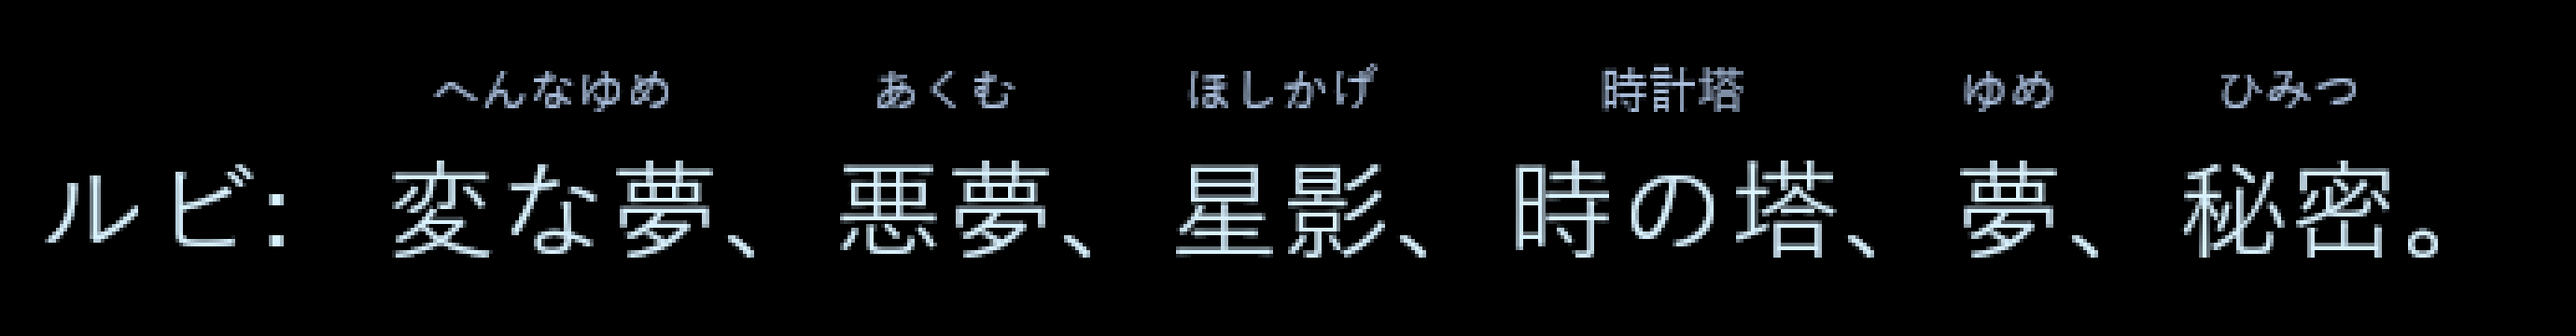
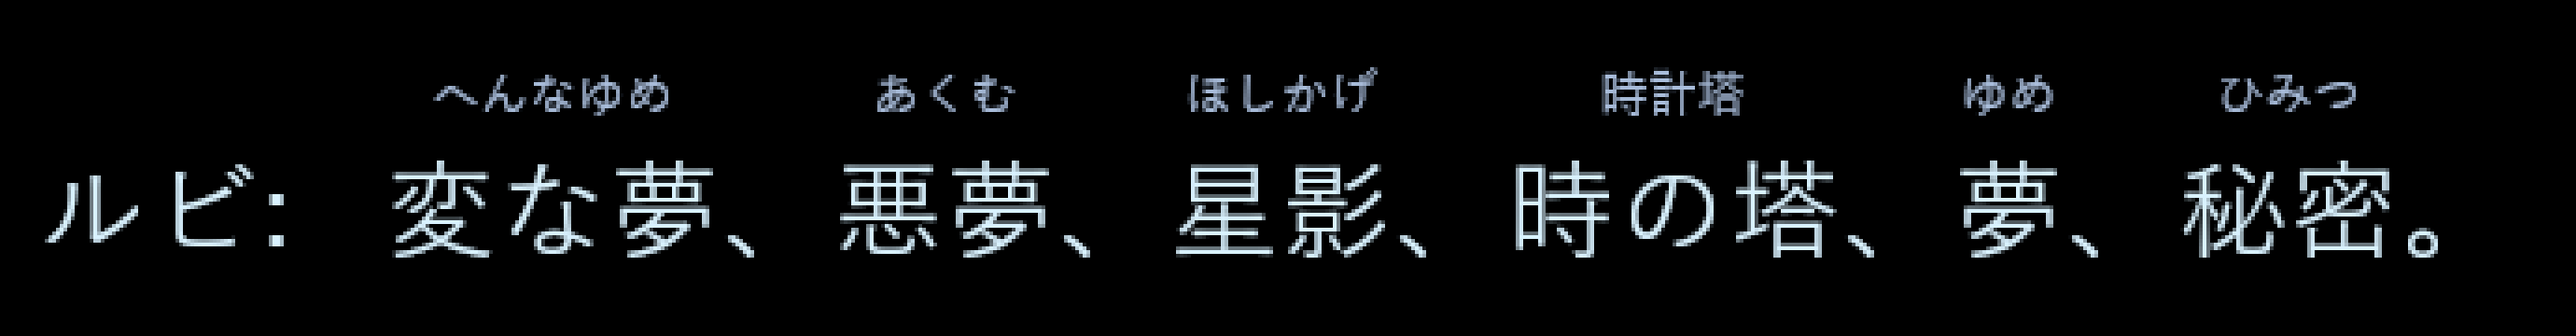
Handle extreme horizontal ruby spacing

diff --git a/crates/arcweft-text-layout/src/lib.rs b/crates/arcweft-text-layout/src/lib.rs
@@ -182,7 +182,7 @@ fn ruby_metrics_from_presentation(
         gap: presentation
             .layout
             .as_ref()
-            .and_then(|layout| positive_milli(layout.ruby_gap))
+            .and_then(|layout| nonnegative_milli(layout.ruby_gap))
             .unwrap_or(DEFAULT_RUBY_GAP),
         overhang: presentation
             .layout
@@ -201,6 +201,12 @@ fn positive_milli(value: Option<arcweft_render_text::Milli>) -> Option<f32> {
     value
         .map(arcweft_render_text::Milli::as_f32)
         .filter(|value| value.is_finite() && *value > 0.0)
+}
+
+fn nonnegative_milli(value: Option<arcweft_render_text::Milli>) -> Option<f32> {
+    value
+        .map(arcweft_render_text::Milli::as_f32)
+        .filter(|value| value.is_finite() && *value >= 0.0)
 }
 
 /// Strictness preset for JLREQ punctuation pair planning.
@@ -342,15 +348,14 @@ pub fn layout_frame(
         let glyph_start = out.glyphs.len();
         match writing_mode {
             RichTextWritingMode::HorizontalTb => {
-                layout_horizontal_run(
-                    &mut out.glyphs,
+                let context = HorizontalRunLayoutContext {
                     run_index,
-                    range.start,
-                    text,
-                    &run.presentation,
-                    run_config,
-                    &mut state,
-                );
+                    range_start: range.start,
+                    presentation: &run.presentation,
+                    ruby_annotations: &frame.display_map.ruby_annotations,
+                    config: run_config,
+                };
+                layout_horizontal_run(&mut out.glyphs, text, context, &mut state);
             }
             RichTextWritingMode::VerticalRl | RichTextWritingMode::VerticalLr => {
                 let context = RunLayoutContext {
@@ -528,32 +533,58 @@ impl LayoutCursor {
     }
 }
 
-fn layout_horizontal_run(
-    glyphs: &mut Vec<LaidOutGlyph>,
+#[derive(Clone, Copy)]
+struct HorizontalRunLayoutContext<'a> {
     run_index: usize,
     range_start: usize,
-    text: &str,
-    presentation: &RichTextPresentation,
+    presentation: &'a RichTextPresentation,
+    ruby_annotations: &'a [RichTextRubyAnnotation],
     config: TextLayoutConfig,
+}
+
+fn layout_horizontal_run(
+    glyphs: &mut Vec<LaidOutGlyph>,
+    text: &str,
+    context: HorizontalRunLayoutContext<'_>,
     state: &mut TextLayoutState,
 ) {
     let cursor = &mut state.horizontal;
-    for (offset, ch) in text.char_indices() {
+    let char_indices = text.char_indices().collect::<Vec<_>>();
+    let mut char_index = 0usize;
+    while let Some((offset, ch)) = char_indices.get(char_index).copied() {
         if ch == '\n' {
-            cursor.x = config.origin.x;
-            cursor.y += config.line_advance;
+            cursor.x = context.config.origin.x;
+            cursor.y += context.config.line_advance;
+            char_index += 1;
             continue;
         }
-        let width = horizontal_advance(ch, config.font_size);
-        if horizontal_cluster_should_wrap(cursor.x, width, config) {
-            cursor.x = config.origin.x;
-            cursor.y += config.line_advance;
+        let absolute_start = context.range_start + offset;
+        if let Some(annotation) = horizontal_ruby_annotation_starting_at(
+            context.ruby_annotations,
+            context.range_start,
+            text,
+            absolute_start,
+        ) {
+            let base_end = annotation.base_range.end;
+            let next_index = layout_horizontal_ruby_base(glyphs, text, annotation, context, cursor);
+            char_index = char_indices
+                .iter()
+                .position(|(candidate_offset, _)| {
+                    context.range_start + *candidate_offset >= base_end
+                })
+                .unwrap_or(next_index);
+            continue;
         }
-        let start = range_start + offset;
+        let width = horizontal_advance(ch, context.config.font_size);
+        if horizontal_cluster_should_wrap(cursor.x, width, context.config) {
+            cursor.x = context.config.origin.x;
+            cursor.y += context.config.line_advance;
+        }
+        let start = context.range_start + offset;
         let end = start + ch.len_utf8();
-        let bounds = horizontal_glyph_bounds(cursor.x, cursor.y, width, config);
+        let bounds = horizontal_glyph_bounds(cursor.x, cursor.y, width, context.config);
         glyphs.push(LaidOutGlyph {
-            run_index,
+            run_index: context.run_index,
             range: RichTextRange::new(start, end),
             text: ch.to_string(),
             origin: LayoutPoint::new(cursor.x, cursor.y),
@@ -562,10 +593,77 @@ fn layout_horizontal_run(
             writing_mode: RichTextWritingMode::HorizontalTb,
             orientation: GlyphOrientation::Upright,
             vertical_form: GlyphVerticalForm::None,
-            presentation: presentation.clone(),
+            presentation: context.presentation.clone(),
         });
         cursor.x += width;
+        char_index += 1;
     }
+}
+
+fn horizontal_ruby_annotation_starting_at<'a>(
+    annotations: &'a [RichTextRubyAnnotation],
+    range_start: usize,
+    text: &str,
+    absolute_start: usize,
+) -> Option<&'a RichTextRubyAnnotation> {
+    let range_end = range_start + text.len();
+    annotations.iter().find(|annotation| {
+        annotation.base_range.start == absolute_start
+            && annotation.base_range.start < annotation.base_range.end
+            && annotation.base_range.end <= range_end
+            && text
+                .get(
+                    (annotation.base_range.start - range_start)
+                        ..(annotation.base_range.end - range_start),
+                )
+                .is_some_and(|base| !base.contains('\n'))
+    })
+}
+
+fn layout_horizontal_ruby_base(
+    glyphs: &mut Vec<LaidOutGlyph>,
+    text: &str,
+    annotation: &RichTextRubyAnnotation,
+    context: HorizontalRunLayoutContext<'_>,
+    cursor: &mut LayoutCursor,
+) -> usize {
+    let base_start = annotation.base_range.start - context.range_start;
+    let base_end = annotation.base_range.end - context.range_start;
+    let Some(base_text) = text.get(base_start..base_end) else {
+        return 0;
+    };
+    let base_width = horizontal_text_advance(base_text, context.config.font_size);
+    let metrics = ruby_metrics(annotation, context.config);
+    let allocation_width = horizontal_ruby_base_allocation_width(
+        base_width,
+        ruby_text_extent(&annotation.ruby, metrics.font_size),
+        context.config,
+    );
+    if horizontal_cluster_should_wrap(cursor.x, allocation_width, context.config) {
+        cursor.x = context.config.origin.x;
+        cursor.y += context.config.line_advance;
+    }
+    let mut glyph_x = cursor.x + (allocation_width - base_width).max(0.0) * 0.5;
+    for (offset, ch) in base_text.char_indices() {
+        let width = horizontal_advance(ch, context.config.font_size);
+        let start = context.range_start + base_start + offset;
+        let end = start + ch.len_utf8();
+        glyphs.push(LaidOutGlyph {
+            run_index: context.run_index,
+            range: RichTextRange::new(start, end),
+            text: ch.to_string(),
+            origin: LayoutPoint::new(glyph_x, cursor.y),
+            advance: LayoutSize::new(width, 0.0),
+            bounds: horizontal_glyph_bounds(glyph_x, cursor.y, width, context.config),
+            writing_mode: RichTextWritingMode::HorizontalTb,
+            orientation: GlyphOrientation::Upright,
+            vertical_form: GlyphVerticalForm::None,
+            presentation: context.presentation.clone(),
+        });
+        glyph_x += width;
+    }
+    cursor.x += allocation_width;
+    text[..base_end].chars().count()
 }
 
 fn horizontal_glyph_bounds(
@@ -577,6 +675,13 @@ fn horizontal_glyph_bounds(
     let height = config.font_size.max(1.0).min(config.line_advance.max(1.0));
     let y = line_y + (config.line_advance - height).max(0.0) * 0.5;
     LayoutRect::new(x, y, width.max(1.0), height)
+}
+
+fn horizontal_text_advance(text: &str, font_size: f32) -> f32 {
+    text.chars()
+        .filter(|ch| *ch != '\n')
+        .map(|ch| horizontal_advance(ch, font_size))
+        .sum()
 }
 
 fn horizontal_cluster_should_wrap(cursor_x: f32, width: f32, config: TextLayoutConfig) -> bool {
@@ -1820,13 +1925,21 @@ fn expand_horizontal_ruby_base(
     ruby_width: f32,
     config: TextLayoutConfig,
 ) -> LayoutRect {
-    let width = ruby_width.max(base_bounds.width).min(config.size.width);
+    let width = horizontal_ruby_base_allocation_width(base_bounds.width, ruby_width, config);
     let max_right = config.origin.x + config.size.width;
     let centered_x = base_bounds.x + (base_bounds.width - width) * 0.5;
     let x = centered_x
         .max(config.origin.x)
         .min((max_right - width).max(config.origin.x));
     LayoutRect::new(x, base_bounds.y, width, base_bounds.height)
+}
+
+fn horizontal_ruby_base_allocation_width(
+    base_width: f32,
+    ruby_width: f32,
+    config: TextLayoutConfig,
+) -> f32 {
+    ruby_width.max(base_width).min(config.size.width)
 }
 
 fn expand_vertical_ruby_base(
@@ -6272,6 +6385,21 @@ mod tests {
     }
 
     #[test]
+    fn horizontal_ruby_gap_accepts_zero_override() {
+        let mut frame = frame_with_run("夢", RichTextPresentation::default());
+        push_ruby(&mut frame, 0, "夢".len(), "ゆめ");
+        frame.display_map.ruby_annotations[0].presentation.layout = Some(RichTextLayout {
+            ruby_gap: Some(Milli(0)),
+            ..RichTextLayout::default()
+        });
+        let layout = layout_frame(&frame, TextLayoutConfig::default()).expect("layout succeeds");
+
+        let base = layout.ruby[0].base_bounds;
+        let annotation = layout.ruby[0].ruby_bounds;
+        assert_f32_eq(base.y - annotation.bottom(), 0.0);
+    }
+
+    #[test]
     fn horizontal_ruby_collision_shifts_adjacent_annotations() {
         let mut frame = frame_with_run("夢星", RichTextPresentation::default());
         push_ruby(&mut frame, 0, "夢".len(), "ながいよみ");
@@ -6310,6 +6438,40 @@ mod tests {
             layout.ruby[0].ruby_bounds.width,
         );
         assert_f32_eq(layout.ruby[0].ruby_bounds.x, layout.ruby[0].base_bounds.x);
+    }
+
+    #[test]
+    fn long_horizontal_ruby_reserves_inline_advance_before_following_text() {
+        let mut frame = frame_with_run("政を", RichTextPresentation::default());
+        push_ruby(&mut frame, 0, "政".len(), "まつりごと");
+        let layout = layout_frame(&frame, TextLayoutConfig::default()).expect("layout succeeds");
+
+        assert_eq!(layout.ruby.len(), 1);
+        assert!(
+            layout.glyphs[1].bounds.x >= layout.ruby[0].base_bounds.right(),
+            "following body glyph should start after the expanded long-ruby base"
+        );
+        assert_f32_eq(
+            layout.glyphs[0].bounds.x + layout.glyphs[0].bounds.width * 0.5,
+            layout.ruby[0].base_bounds.x + layout.ruby[0].base_bounds.width * 0.5,
+        );
+    }
+
+    #[test]
+    fn short_horizontal_ruby_centers_over_wide_base() {
+        let base = "中央の帝国将官たち";
+        let mut frame = frame_with_run(base, RichTextPresentation::default());
+        push_ruby(&mut frame, 0, base.len(), "ぐん");
+        let layout = layout_frame(&frame, TextLayoutConfig::default()).expect("layout succeeds");
+
+        assert_eq!(layout.ruby.len(), 1);
+        let base_center = layout.ruby[0].base_bounds.x + layout.ruby[0].base_bounds.width * 0.5;
+        let ruby_center = layout.ruby[0].ruby_bounds.x + layout.ruby[0].ruby_bounds.width * 0.5;
+        assert_f32_eq(base_center, ruby_center);
+        assert!(
+            layout.ruby[0].ruby_bounds.width < layout.ruby[0].base_bounds.width,
+            "short ruby should remain centered instead of expanding the base"
+        );
     }
 
     #[test]

diff --git a/docs/implementation/visual-sample-review-issues/2026-06-15/README.md b/docs/implementation/visual-sample-review-issues/2026-06-15/README.md
@@ -45,7 +45,7 @@ fields for ruby typography: `ruby_size`, `ruby_gap`, `ruby_overhang`, and
 `ruby_collision_gap` on layout selectors such as:
 
 ```arcw
-[.ruby_over ruby_size=13px ruby_gap=1px ruby_overhang=4px ruby_collision_gap=3px]
+[.ruby_over ruby_size=13px ruby_gap=0px ruby_overhang=4px ruby_collision_gap=3px]
 |[夢](ゆめ)
 [/]
 ```
@@ -61,8 +61,9 @@ follow-up issues.
 
 | ID | Closed in | Evidence | Validation |
 | --- | --- | --- | --- |
-| `SVR-2026-06-15-001` | Ruby typography is configurable through `ruby_size`, `ruby_gap`, `ruby_overhang`, and `ruby_collision_gap`; the engine default gap now matches the documented 2px value instead of deriving a looser `font_size * 0.2`, and the full-grammar sample line keeps its explicit 1px gap override with a 13px ruby size. | Original: [`issue-001-ruby-gap-full-frame.png`](issue-001-ruby-gap-full-frame.png); fixed: [`issue-001-fixed-ruby-gap-full-frame.png`](issue-001-fixed-ruby-gap-full-frame.png). | `cargo test -p arcweft-text-layout ruby -- --nocapture`; `target\release\arcw.exe agent observe samples\rich-text-full-grammar.arcw --json --image png --out docs\implementation\visual-sample-review-issues\2026-06-15\issue-001-fixed-ruby-gap-full-frame.png --mode drain --steps 16 --max-ops 256` |
-| `SVR-2026-06-15-009` | Horizontal ruby placement now uses font-size-centered horizontal glyph bounds instead of the whole line box, native ruby buffers use tight ruby metrics, and the full-grammar sample uses a readable 13px ruby override so visual gap review matches the intended typography. | Fixed: [`issue-009-fixed-horizontal-ruby-ink-bounds-full-frame.png`](issue-009-fixed-horizontal-ruby-ink-bounds-full-frame.png); zoom: [`issue-009-fixed-horizontal-ruby-ink-bounds-ruby-zoom.png`](issue-009-fixed-horizontal-ruby-ink-bounds-ruby-zoom.png). | `cargo test -p arcweft-text-layout ruby -- --nocapture`; `cargo test -p arcweft-player-native native_ruby_style_uses_tight_line_height -- --nocapture`; `cargo test -p arcweft-cli --test check agent_observe_native_renderer_writes_object_raw_crop -- --exact --nocapture`; `cargo run -p arcweft-cli --quiet -- agent observe samples\rich-text-full-grammar.arcw --json --image png --out docs\implementation\visual-sample-review-issues\2026-06-15\issue-009-fixed-horizontal-ruby-ink-bounds-full-frame.png --mode drain --steps 16 --max-ops 256` |
+| `SVR-2026-06-15-001` | Ruby typography is configurable through `ruby_size`, `ruby_gap`, `ruby_overhang`, and `ruby_collision_gap`; the engine default gap now matches the documented 2px value instead of deriving a looser `font_size * 0.2`, and the full-grammar sample line keeps an explicit 0px gap override with a 13px ruby size for visual distance review. | Original: [`issue-001-ruby-gap-full-frame.png`](issue-001-ruby-gap-full-frame.png); fixed: [`issue-001-fixed-ruby-gap-full-frame.png`](issue-001-fixed-ruby-gap-full-frame.png). | `cargo test -p arcweft-text-layout ruby -- --nocapture`; `target\release\arcw.exe agent observe samples\rich-text-full-grammar.arcw --json --image png --out docs\implementation\visual-sample-review-issues\2026-06-15\issue-001-fixed-ruby-gap-full-frame.png --mode drain --steps 16 --max-ops 256` |
+| `SVR-2026-06-15-009` | Horizontal ruby placement now uses font-size-centered horizontal glyph bounds instead of the whole line box, native ruby buffers use tight ruby metrics, 0px ruby gaps are honored, and long ruby bases reserve inline advance before following body text. The full-grammar sample includes both `政`/`まつりごと` long-ruby and `中央の帝国将官たち`/`ぐん` short-ruby checks. | Fixed: [`issue-009-fixed-horizontal-ruby-ink-bounds-full-frame.png`](issue-009-fixed-horizontal-ruby-ink-bounds-full-frame.png); zoom: [`issue-009-fixed-horizontal-ruby-ink-bounds-ruby-zoom.png`](issue-009-fixed-horizontal-ruby-ink-bounds-ruby-zoom.png). | `cargo test -p arcweft-text-layout ruby -- --nocapture`; `cargo test -p arcweft-player-native native_ruby_style_uses_tight_line_height -- --nocapture`; `cargo test -p arcweft-cli --test check agent_observe_native_renderer_writes_object_raw_crop -- --exact --nocapture`; `cargo run -p arcweft-cli --quiet -- agent observe samples\rich-text-full-grammar.arcw --json --image png --out docs\implementation\visual-sample-review-issues\2026-06-15\issue-009-fixed-horizontal-ruby-ink-bounds-full-frame.png --mode drain --steps 16 --max-ops 256` |
+| `SVR-2026-06-15-010` | The full-grammar sample now has an explicit extreme horizontal ruby object. The long `まつりごと` ruby over `政` reserves inline advance before `を`, and the short `ぐん` ruby over `中央の帝国将官たち` remains centered over the base span. | Fixed: [`issue-010-extreme-horizontal-ruby-object.png`](issue-010-extreme-horizontal-ruby-object.png); zoom: [`issue-010-extreme-horizontal-ruby-object-zoom.png`](issue-010-extreme-horizontal-ruby-object-zoom.png). | `cargo test -p arcweft-text-layout ruby -- --nocapture`; `cargo run -p arcweft-cli --quiet -- agent observe samples\rich-text-full-grammar.arcw --json --image png --out docs\implementation\visual-sample-review-issues\2026-06-15\issue-010-extreme-horizontal-ruby-object.png --mode drain --steps 16 --max-ops 256 --object object.dialogue.0.1` |
 | `SVR-2026-06-15-002` | Native textbox object capture bounds now union the selected textbox bbox with native-measured TextRun/Ruby/GlyphCluster bounds for the requested page, so ruby annotation extents and existing debug padding are included before cropping. | Original: [`issue-002-ruby-object-crop-full-grammar.png`](issue-002-ruby-object-crop-full-grammar.png); fixed: [`issue-002-fixed-native-textbox-ruby-crop-full-grammar.png`](issue-002-fixed-native-textbox-ruby-crop-full-grammar.png). | `target\release\arcw.exe agent observe samples\rich-text-full-grammar.arcw --json --image png --out docs\implementation\visual-sample-review-issues\2026-06-15\issue-002-fixed-native-textbox-ruby-crop-full-grammar.png --mode drain --steps 16 --max-ops 256 --object object.dialogue.0.0` |
 | `SVR-2026-06-15-003` | The same native-measured textbox crop expansion keeps the `星屑` ruby annotation away from the top crop edge in the showcase object capture. | Original: [`issue-003-ruby-object-crop-showcase.png`](issue-003-ruby-object-crop-showcase.png); fixed: [`issue-003-fixed-native-textbox-ruby-crop-showcase.png`](issue-003-fixed-native-textbox-ruby-crop-showcase.png). | `target\release\arcw.exe agent observe samples\rich-text-showcase.arcw --json --image png --out docs\implementation\visual-sample-review-issues\2026-06-15\issue-003-fixed-native-textbox-ruby-crop-showcase.png --mode drain --steps 16 --max-ops 256 --object object.dialogue.0.0` |
 | `SVR-2026-06-15-004` | Native textbox object capture bounds now include measured vertical columns before crop, so the mixed horizontal/vertical showcase object includes the full vertical run. | Original: [`issue-004-vertical-mixed-crop-showcase.png`](issue-004-vertical-mixed-crop-showcase.png); fixed: [`issue-004-fixed-native-textbox-vertical-crop-showcase.png`](issue-004-fixed-native-textbox-vertical-crop-showcase.png). | `target\release\arcw.exe agent observe samples\rich-text-showcase.arcw --json --image png --out docs\implementation\visual-sample-review-issues\2026-06-15\issue-004-fixed-native-textbox-vertical-crop-showcase.png --mode drain --steps 16 --max-ops 256 --object object.dialogue.0.3` |
